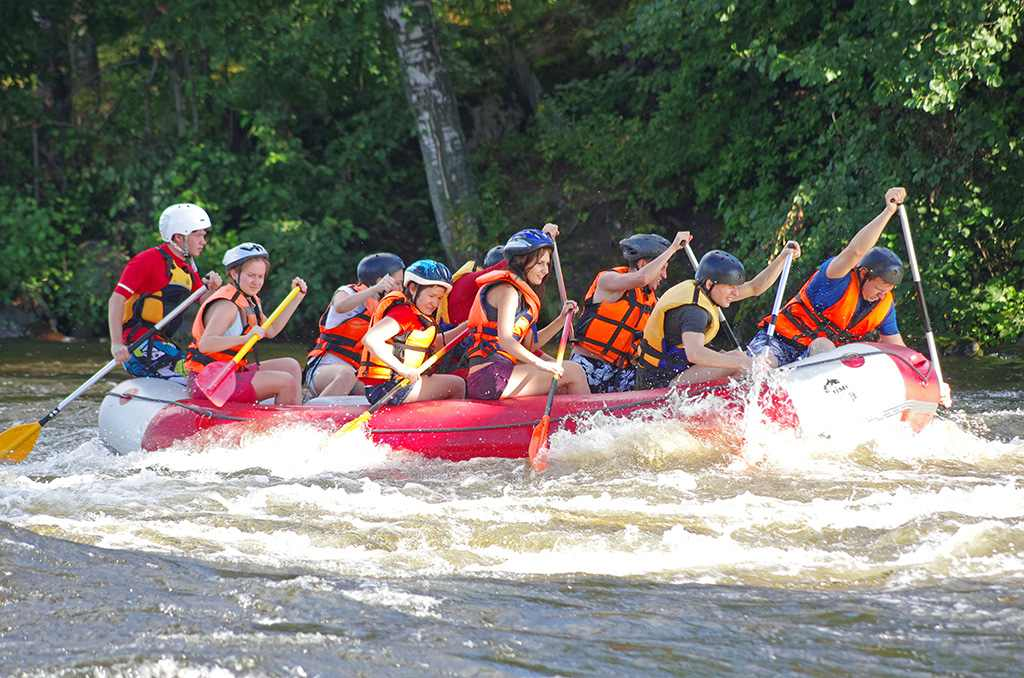
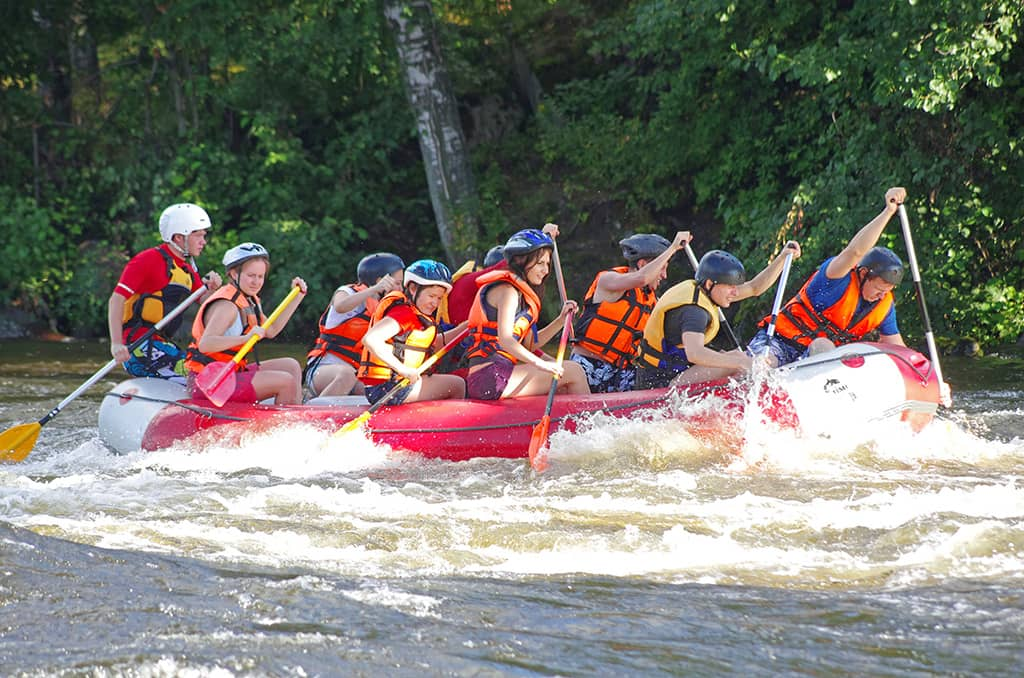
Week 06 project

diff --git a/wwr/index.html b/wwr/index.html
@@ -1,0 +1,90 @@
+<!DOCTYPE html>
+<html lang="en">
+
+<head>
+    <meta charset="UTF-8">
+    <meta name="viewport" content="width=device-width, initial-scale=1.0">
+    <title>White Water Rafting|Home </title>
+    <meta name="description"
+      content="White Water Rafting Website, Home page, a page providing an overview of our offers, Trips, and a form to suscribe to our newsletter. ">
+    <meta name="author" content="Flavien Mabouba">
+    <link rel="stylesheet" href="styles/rafting.css">
+</head>
+
+<body>
+    <header>
+        <img src="images/company.png" alt="Company logo">
+        <nav>
+            <ul class="navigation">
+                <li><a href="index.html">Home</a></li>
+                <li><a href="about.html">About Us</a></li>
+                <li><a href="trips.html">Trips</a></li>
+                <li><a href="contact.html">Contact Us</a></li>
+            </ul>
+        </nav>
+    </header>
+    <main>
+        <div class="hero">
+            <img src="images/banner-image.jpg" alt="Rafting experience">
+            <h1>White Water Rafting</h1>
+        </div>
+        <div class="join">
+            <h2>Join the Adventure!</h2>
+        </div>
+        <section>
+            <div class="oportunity">
+                <div class="offer">
+                    <img src="images/site-info.jpg" alt="Rafting experience">
+                    <p>
+                        Lorem ipsum dolor sit amet consectetur adipisicing elit. Dignissimos minus
+                        deserunt
+                        quis, illum saepe amet expedita alias aspernatur mollitia, commodi, rerum
+                        optio
+                        animi maxime libero quaerat repellat. Fugiat, neque nostrum?
+                    </p>
+                </div>
+
+                <div class="offer">
+                    <img src="images/site-offer.jpg" alt="Rafting Experience">
+                    <p>
+                        Lorem ipsum, dolor sit amet consectetur adipisicing elit. Repellat, nemo.
+                        Corporis molestiae, necessitatibus doloribus officiis rem autem animi
+                        recusandae ex optio dignissimos. Consequuntur, beatae. Quasi deleniti
+                        voluptates consectetur reprehenderit eveniet.
+                    </p>
+                </div>
+            </div>
+        </section>
+        <section class="trips">
+            <a href="trips.html">Click Here And Explore Our Trips!</a>
+        </section>
+        <section>
+            <h2>Join Our Newsletter</h2>
+            <form>
+                <fieldset>
+                    <legend>Contact Information</legend>
+                    <div class="form-item column2">
+                        <label for="fullname">Full Name:</label>
+                        <input type="text" id="fullname" name="fullname" required>
+                    </div>
+                    <div class="form-item column2">
+                        <label for="email">Email Address:</label>
+                        <input type="email" id="email" name="email" required>
+                    </div>
+                </fieldset>
+                <button type="submit">Sign Up</button>
+            </form>
+        </section>
+    </main>
+    <footer>
+        <p>©2026 🦩 White Water Rafting 🦩 Flavien Mabouba 🦩</p>
+        <nav class="socialmedia">
+            <a href="https://facebook.com"><img src="images/facebook.png" alt="Facebook icon"></a>
+            <a href="https://instagram.com"><img src="images/instagram.png"
+                  alt="Instagram icon"></a>
+            <a href="https://linkedin.com"><img src="images/linkedin.png" alt="Linkedin icon"></a>
+        </nav>
+    </footer>
+</body>
+
+</html>

diff --git a/wwr/trips.html b/wwr/trips.html
@@ -1,0 +1,96 @@
+<!DOCTYPE html>
+<html lang="en">
+
+<head>
+    <meta charset="UTF-8">
+    <meta name="viewport" content="width=device-width, initial-scale=1.0">
+    <title>White Water Rafting|Trips</title>
+    <meta name="description"
+      content="White Water Rafting Website, Trips page, a page providing rafting offers and prices, and a link to our Contact page ">
+    <meta name="author" content="Flavien Mabouba">
+    <link rel="stylesheet" href="styles/rafting.css">
+</head>
+
+<body>
+    <header>
+        <img src="images/company.png" alt="Company logo">
+        <nav>
+            <ul class="navigation">
+                <li><a href="index.html">Home</a></li>
+                <li><a href="about.html">About Us</a></li>
+                <li><a href="trips.html">Trips</a></li>
+                <li><a href="contact.html">Contact Us</a></li>
+            </ul>
+        </nav>
+    </header>
+    <main>
+        <div class="roads">
+            <article>
+                <img src="images/trip.jpg" alt="Rafting Experience">
+                <h3>River Rapids Expedition</h3>
+                <p>Experience thrilling rapids with expert guides. Perfect for adrenaline seekers!
+                </p>
+            </article>
+
+            <article>
+                <img src="images/trip-y.jpg" alt="Rafting Experience">
+                <h3>Family Fun Float</h3>
+                <p>A calmer trip suitable for families and beginners. Scenic views guaranteed.</p>
+            </article>
+
+            <article>
+                <img src="images/trip-z.jpg" alt="Rafting Experience">
+                <h3>Mountain Stream Challenge</h3>
+                <p>Navigate narrow streams with breathtaking mountain landscapes.</p>
+            </article>
+        </div>
+        <section class="trips">
+            <h2>Ready for the adventure?</h2>
+            <a href="contact.html">Contact Us Today!</a>
+        </section>
+        <section>
+            <h2>Available Trips</h2>
+            <table>
+                <thead>
+                    <tr>
+                        <th>Trip Name</th>
+                        <th>Difficulty</th>
+                        <th>Duration</th>
+                        <th>Price</th>
+                    </tr>
+                </thead>
+                <tbody>
+                    <tr>
+                        <td>River Rapids Expedition</td>
+                        <td>Advanced</td>
+                        <td>4 hours</td>
+                        <td>$120</td>
+                    </tr>
+                    <tr>
+                        <td>Family Fun Float</td>
+                        <td>Beginner</td>
+                        <td>2 hours</td>
+                        <td>$80</td>
+                    </tr>
+                    <tr>
+                        <td>Mountain stream Challenge</td>
+                        <td>Intermediate</td>
+                        <td>3 hours</td>
+                        <td>$100</td>
+                    </tr>
+                </tbody>
+            </table>
+        </section>
+    </main>
+    <footer>
+        <p>©2026 🦩 White Water Rafting 🦩 Flavien Mabouba 🦩</p>
+        <nav class="socialmedia">
+            <a href="https://facebook.com"><img src="images/facebook.png" alt="Facebook icon"></a>
+            <a href="https://instagram.com"><img src="images/instagram.png"
+                  alt="Instagram icon"></a>
+            <a href="https://linkedin.com"><img src="images/linkedin.png" alt="Linkedin icon"></a>
+        </nav>
+    </footer>
+</body>
+
+</html>

diff --git a/wwr/styles/rafting.css b/wwr/styles/rafting.css
@@ -85,7 +85,8 @@ header {
     grid-template-columns: 120px 1fr;
     align-items: center;
     gap: 200px;
-    margin-bottom: 1rem;
+    margin-bottom: 2.5rem;
+    border-bottom: var(--accent2-color) solid 1px;
 }
 
 .navigation {
@@ -214,7 +215,7 @@ iframe {
 
 form {
     width: 380px;
-    height: 600px;
+    height: auto;
     margin: 0 auto;
     padding: 1rem;
     border: 1px solid rgb(0 0 0 / 0.1);
@@ -328,4 +329,79 @@ button:hover {
 .column4 label {
     font-size: .83rem;
     text-align: left;
+}
+
+/* Home Page */
+
+.join {
+    margin-top: 3rem;
+}
+
+.oportunity {
+    display: grid;
+    grid-template-columns: 1fr 1fr;
+    gap: 5px;
+}
+
+.offer img {
+    width: 380px;
+    height: 250px;
+}
+
+.offer p {
+    text-align: center;
+}
+
+.trips {
+    text-align: center;
+}
+
+.trips a {
+    text-decoration: none;
+    font-size: 1.5em;
+    color: navy;
+}
+
+.trips a:hover {
+    color: var(--primary-color);
+}
+
+/* Trips page */
+
+.roads {
+    display: grid;
+    grid-template-columns: 1fr 1fr 2fr;
+    gap: 5px;
+}
+
+.roads article {
+    margin: 5px;
+    padding: 2px;
+    text-align: center;
+}
+
+.roads article img {
+    width: 265px;
+    height: 160px;
+}
+
+table {
+    margin: 0 auto;
+    border-collapse: collapse;
+    border: 2px solid rgb(140 140 140);
+    letter-spacing: 1px;
+}
+
+th,
+td {
+    border: 1px solid rgb(150 150 150);
+    padding: 8px 12px;
+    text-align: center;
+}
+
+thead tr,
+tfoot tr {
+    background-color: rgb(0 0 0);
+    color: white;
+    font-weight: 700;
 }

diff --git a/wwr/about.html b/wwr/about.html
@@ -4,7 +4,7 @@
 <head>
     <meta charset="UTF-8">
     <meta name="viewport" content="width=device-width, initial-scale=1.0">
-    <title>White Water Rafting|About us page</title>
+    <title>White Water Rafting|About Us</title>
     <meta name="description"
       content="White Water Rafting Website, About us page, a home page providing an overview of the purpose of the website, history, and other promotions for the company. ">
     <meta name="author" content="Flavien Mabouba">
